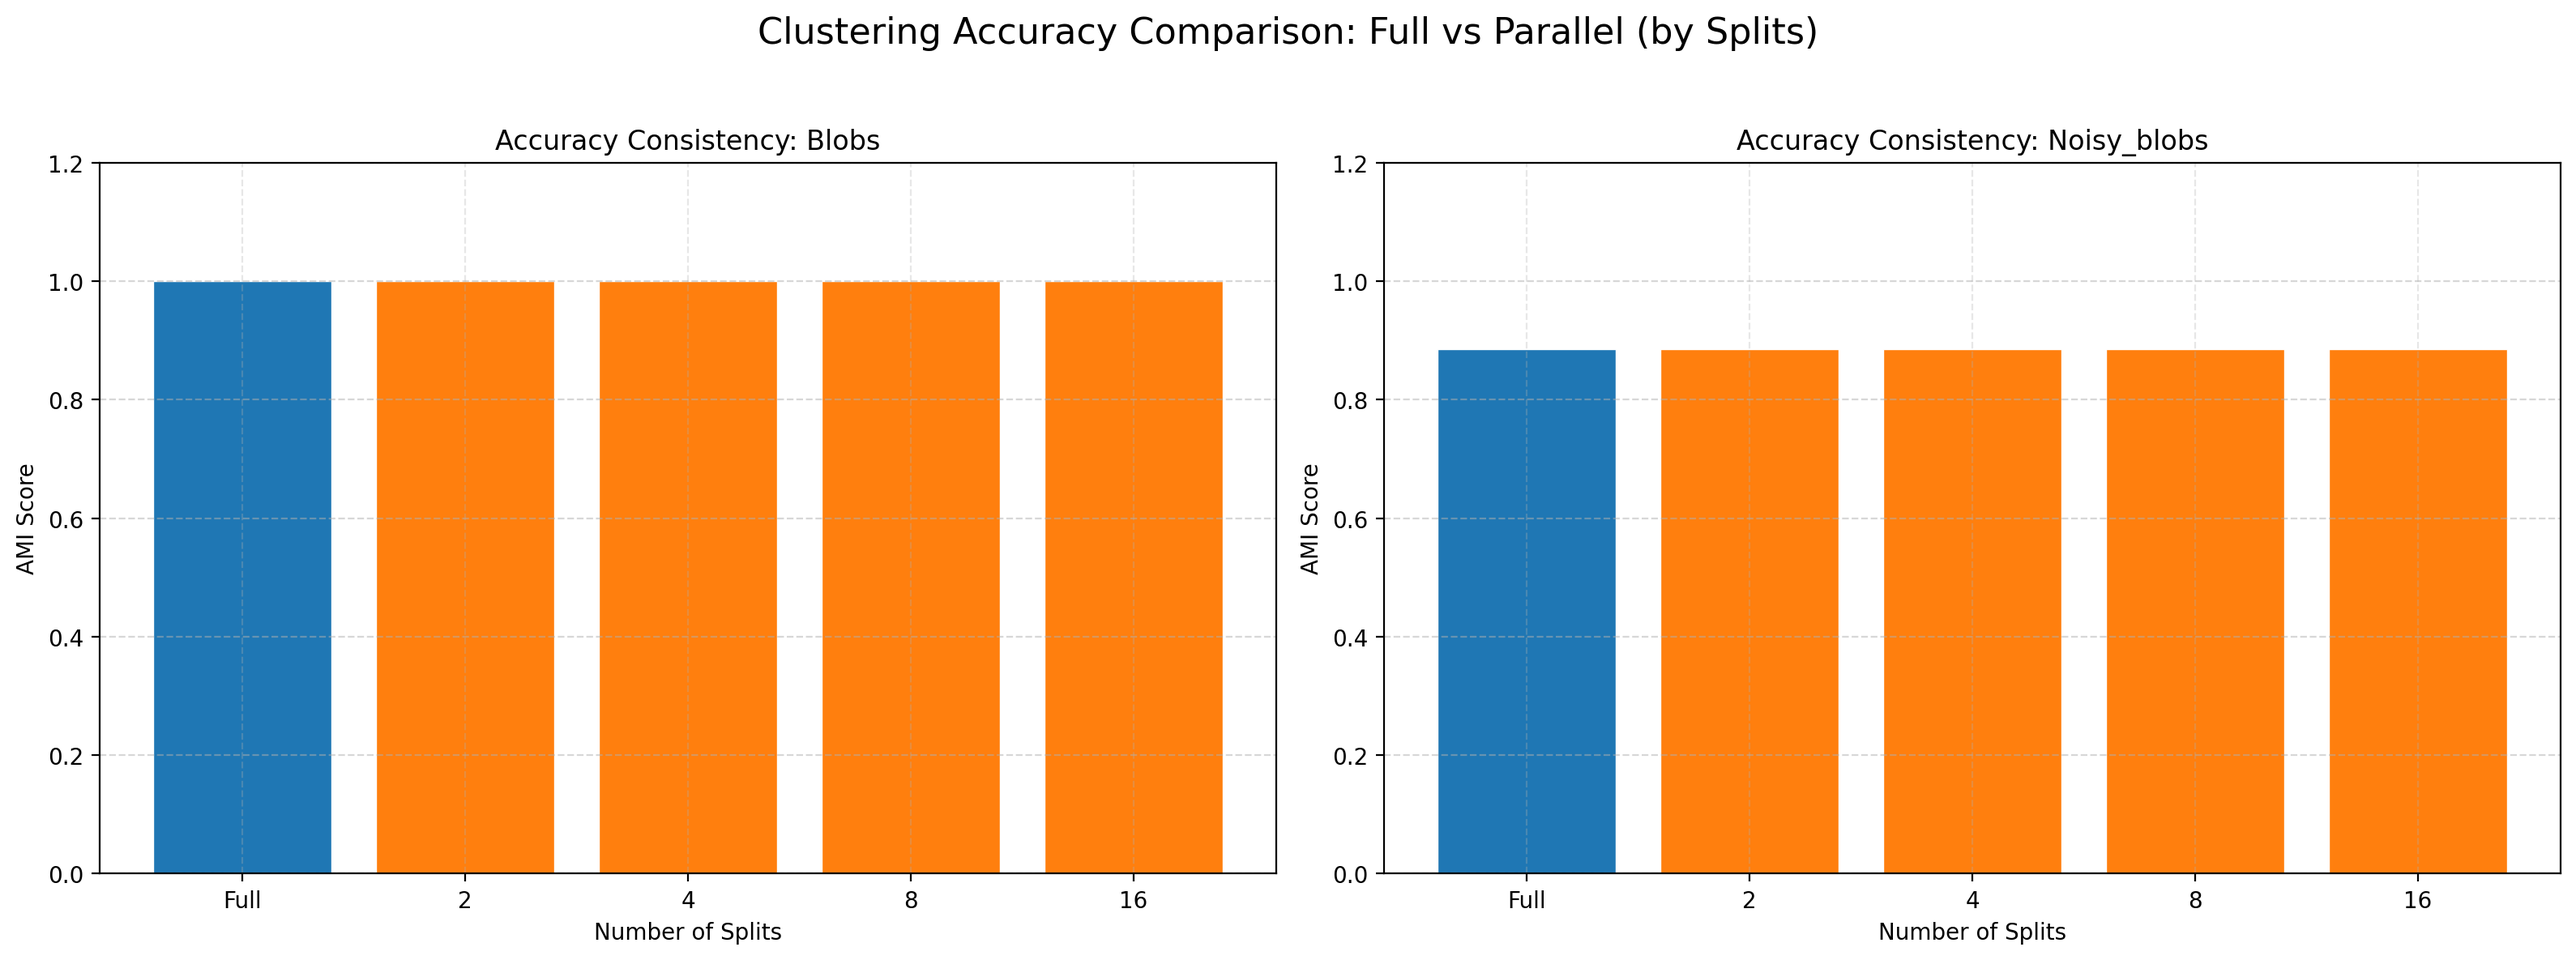
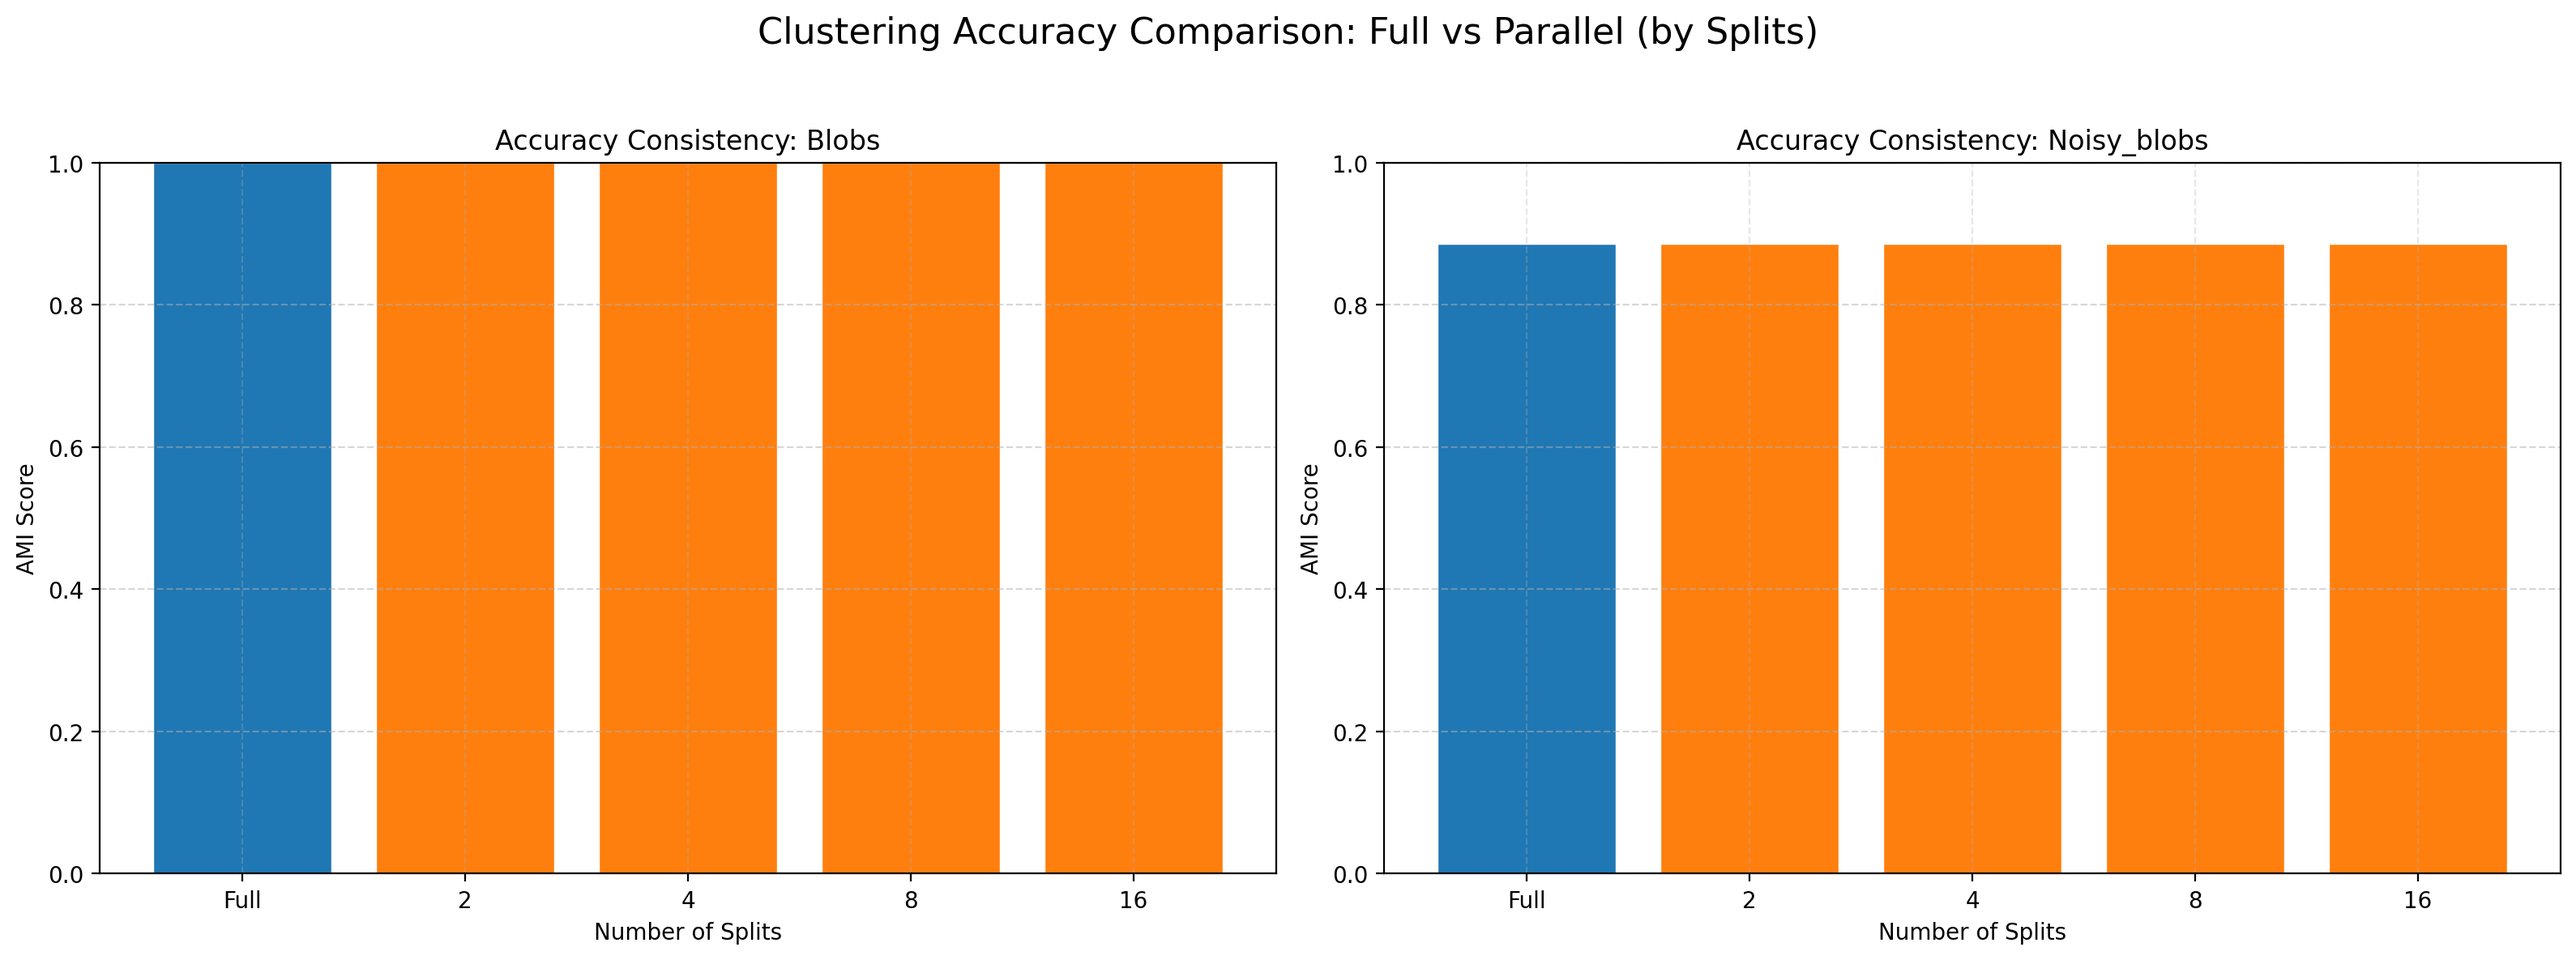
update

Changed region(s): [[0.0623, 0.1561, 0.4983, 0.3122], [0.5294, 0.2498, 0.9965, 0.3747]]

diff --git a/plot_results.py b/plot_results.py
@@ -426,7 +426,7 @@ def plot_accuracy_consistency_comparison(df, outpath):
         ax.set_title(f"Accuracy Consistency: {ds_name.capitalize()}")
         ax.set_xlabel("Number of Splits")
         ax.set_ylabel("AMI Score")
-        ax.set_ylim(0, 1.2)
+        ax.set_ylim(0, 1.0)
         ax.grid(axis='y', linestyle='--', alpha=0.5)
 
     fig.suptitle("Clustering Accuracy Comparison: Full vs Parallel (by Splits)",
